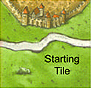
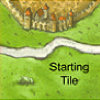
Initialize Tile Deck, Starting Tile

diff --git a/src/Model/CarcassonneModel.java b/src/Model/CarcassonneModel.java
@@ -1,29 +1,50 @@
 package Model;
 
+import java.awt.Image;
+import java.util.ArrayList;
+
+import javax.swing.ImageIcon;
 import javax.swing.JPanel;
 
 public class CarcassonneModel extends JPanel {
-	
-	private int tileCounter = 0; 
-	
-	public CarcassonneModel(){
+
+	/**
+	 * 
+	 */
+	private static final long serialVersionUID = 5890392028083477707L;
+
+	private Deck<Tile> deck;
+	private Tile startingTile;
+
+	private int tileCounter = 0;
+
+	public CarcassonneModel() {
+		this.deck = new Deck();
+		this.startingTile = new Tile(
+			new Integer[] { TileFeature.CITY, TileFeature.ROAD, TileFeature.GRASS, TileFeature.ROAD },
+			new ImageIcon("src/img/startingtile.png").getImage(),
+			false,
+			false,
+			false
+		);
+		// TODO: Set up players?
 	}
-	
-	public void addTile(){
-		//TODO: random select tile from the deck
-		//TODO: Keep track of which player is using tile
-		
+
+	public void addTile() {
+		// TODO: random select tile from the deck
+		// TODO: Keep track of which player is using tile
+
 		tileCounter++;
 	}
+
 	/**
 	 * Searches to detect if all tiles have been used
 	 */
-	public boolean isOver(){
-		if(tileCounter == 72){
+	public boolean isOver() {
+		if (tileCounter == 72) {
 			return true;
-		}
-		else{
-			return false; 
+		} else {
+			return false;
 		}
 	}
 }
